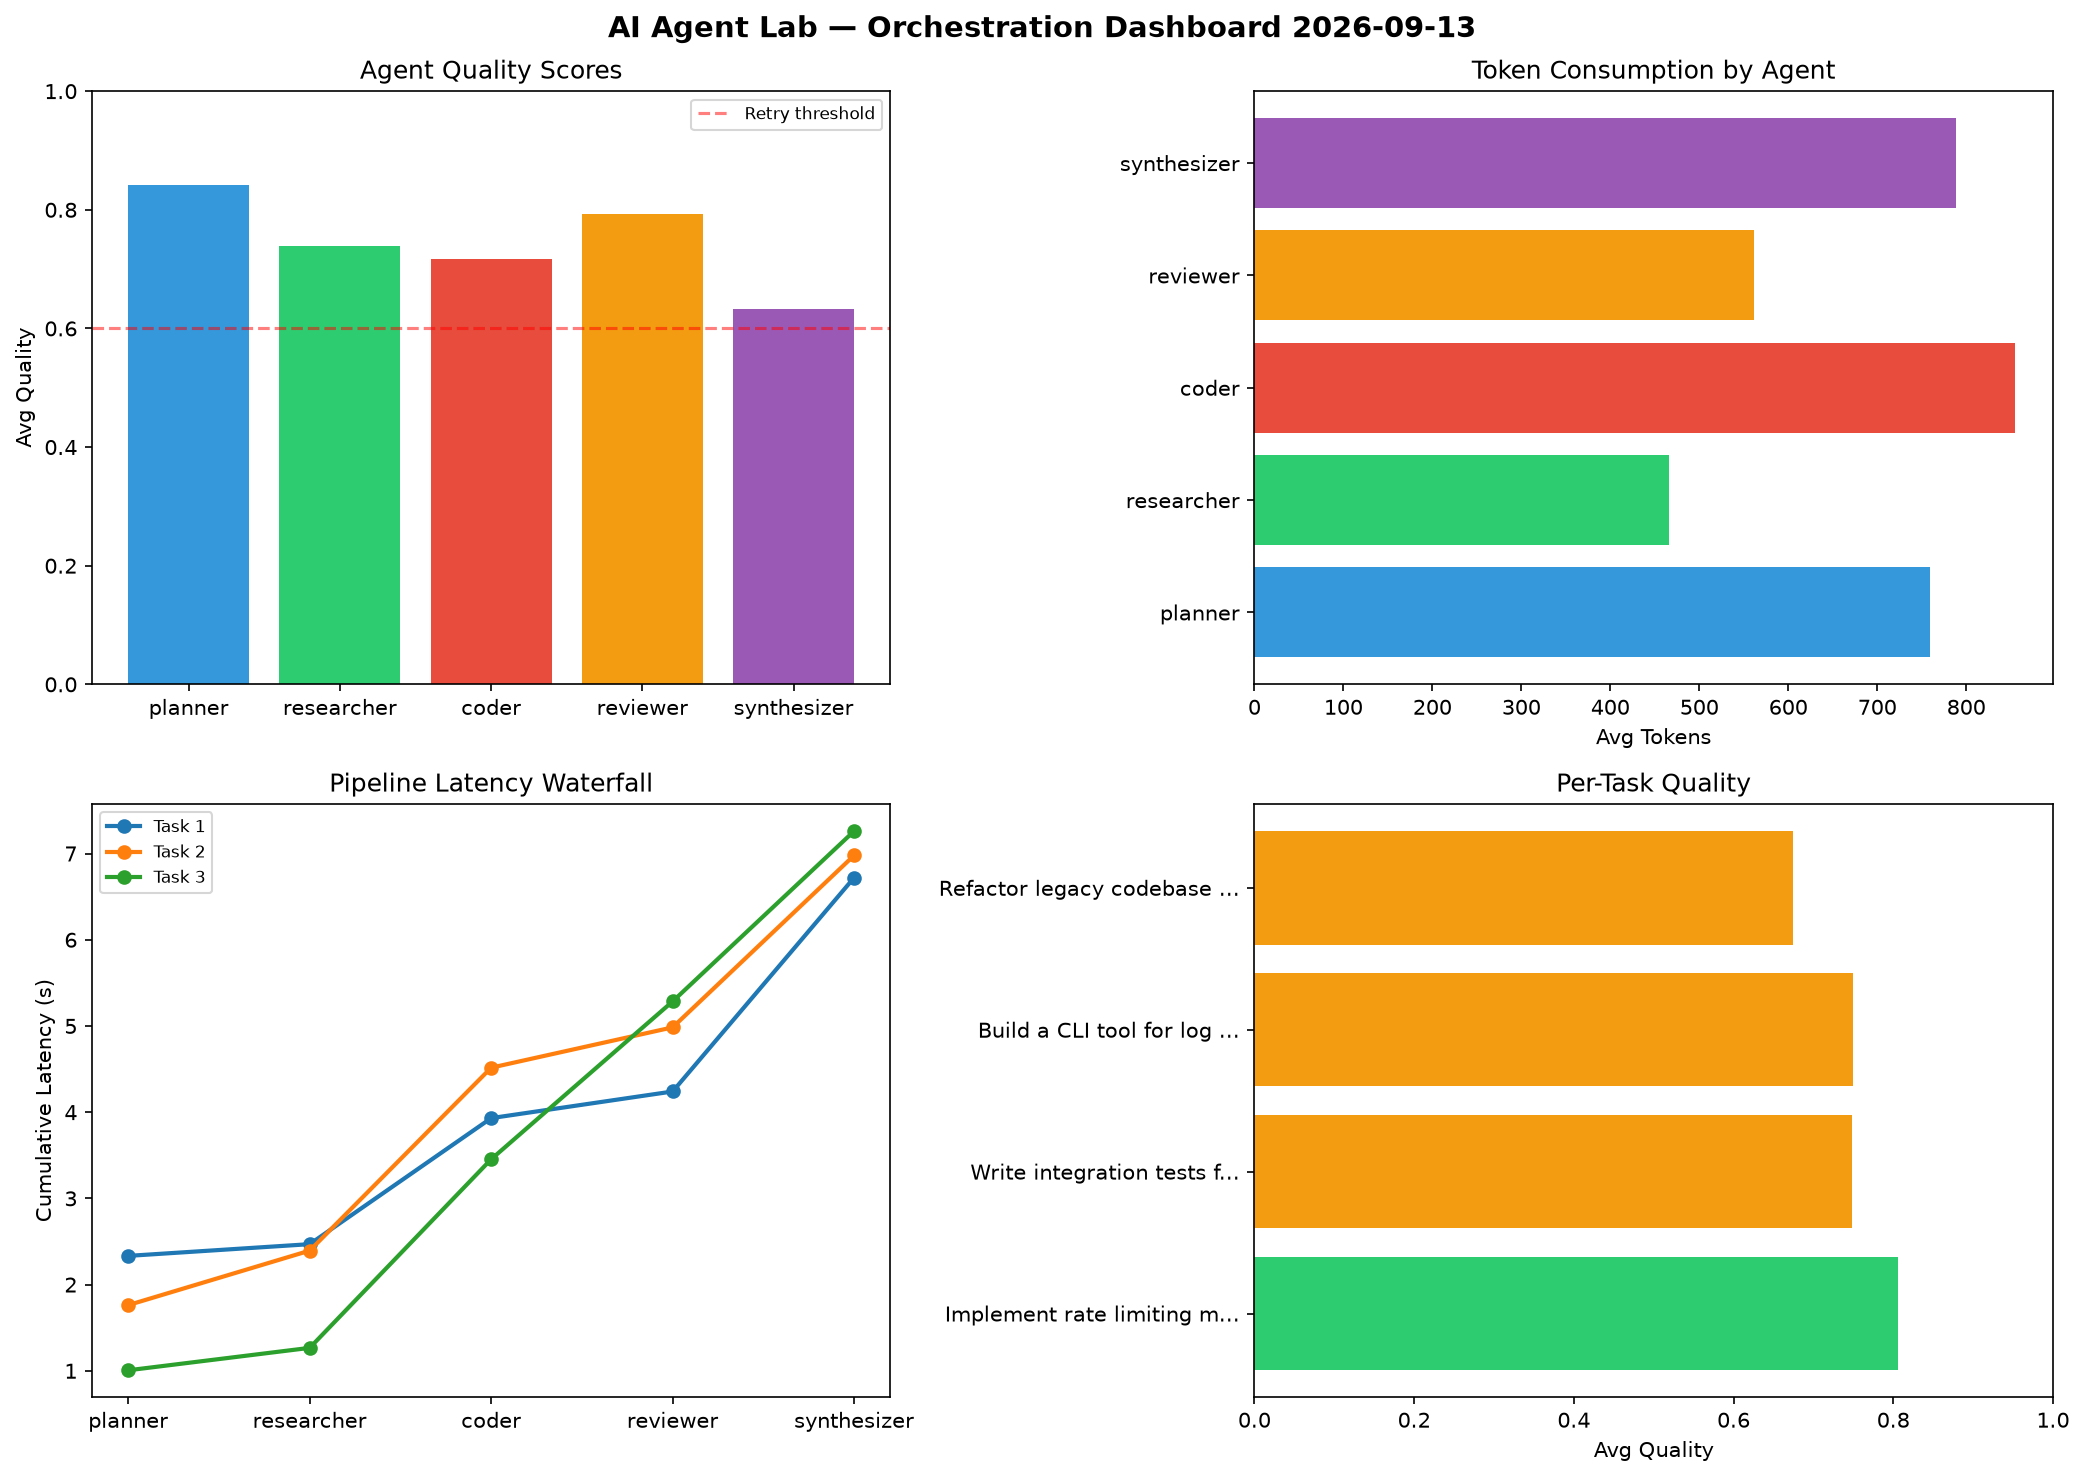
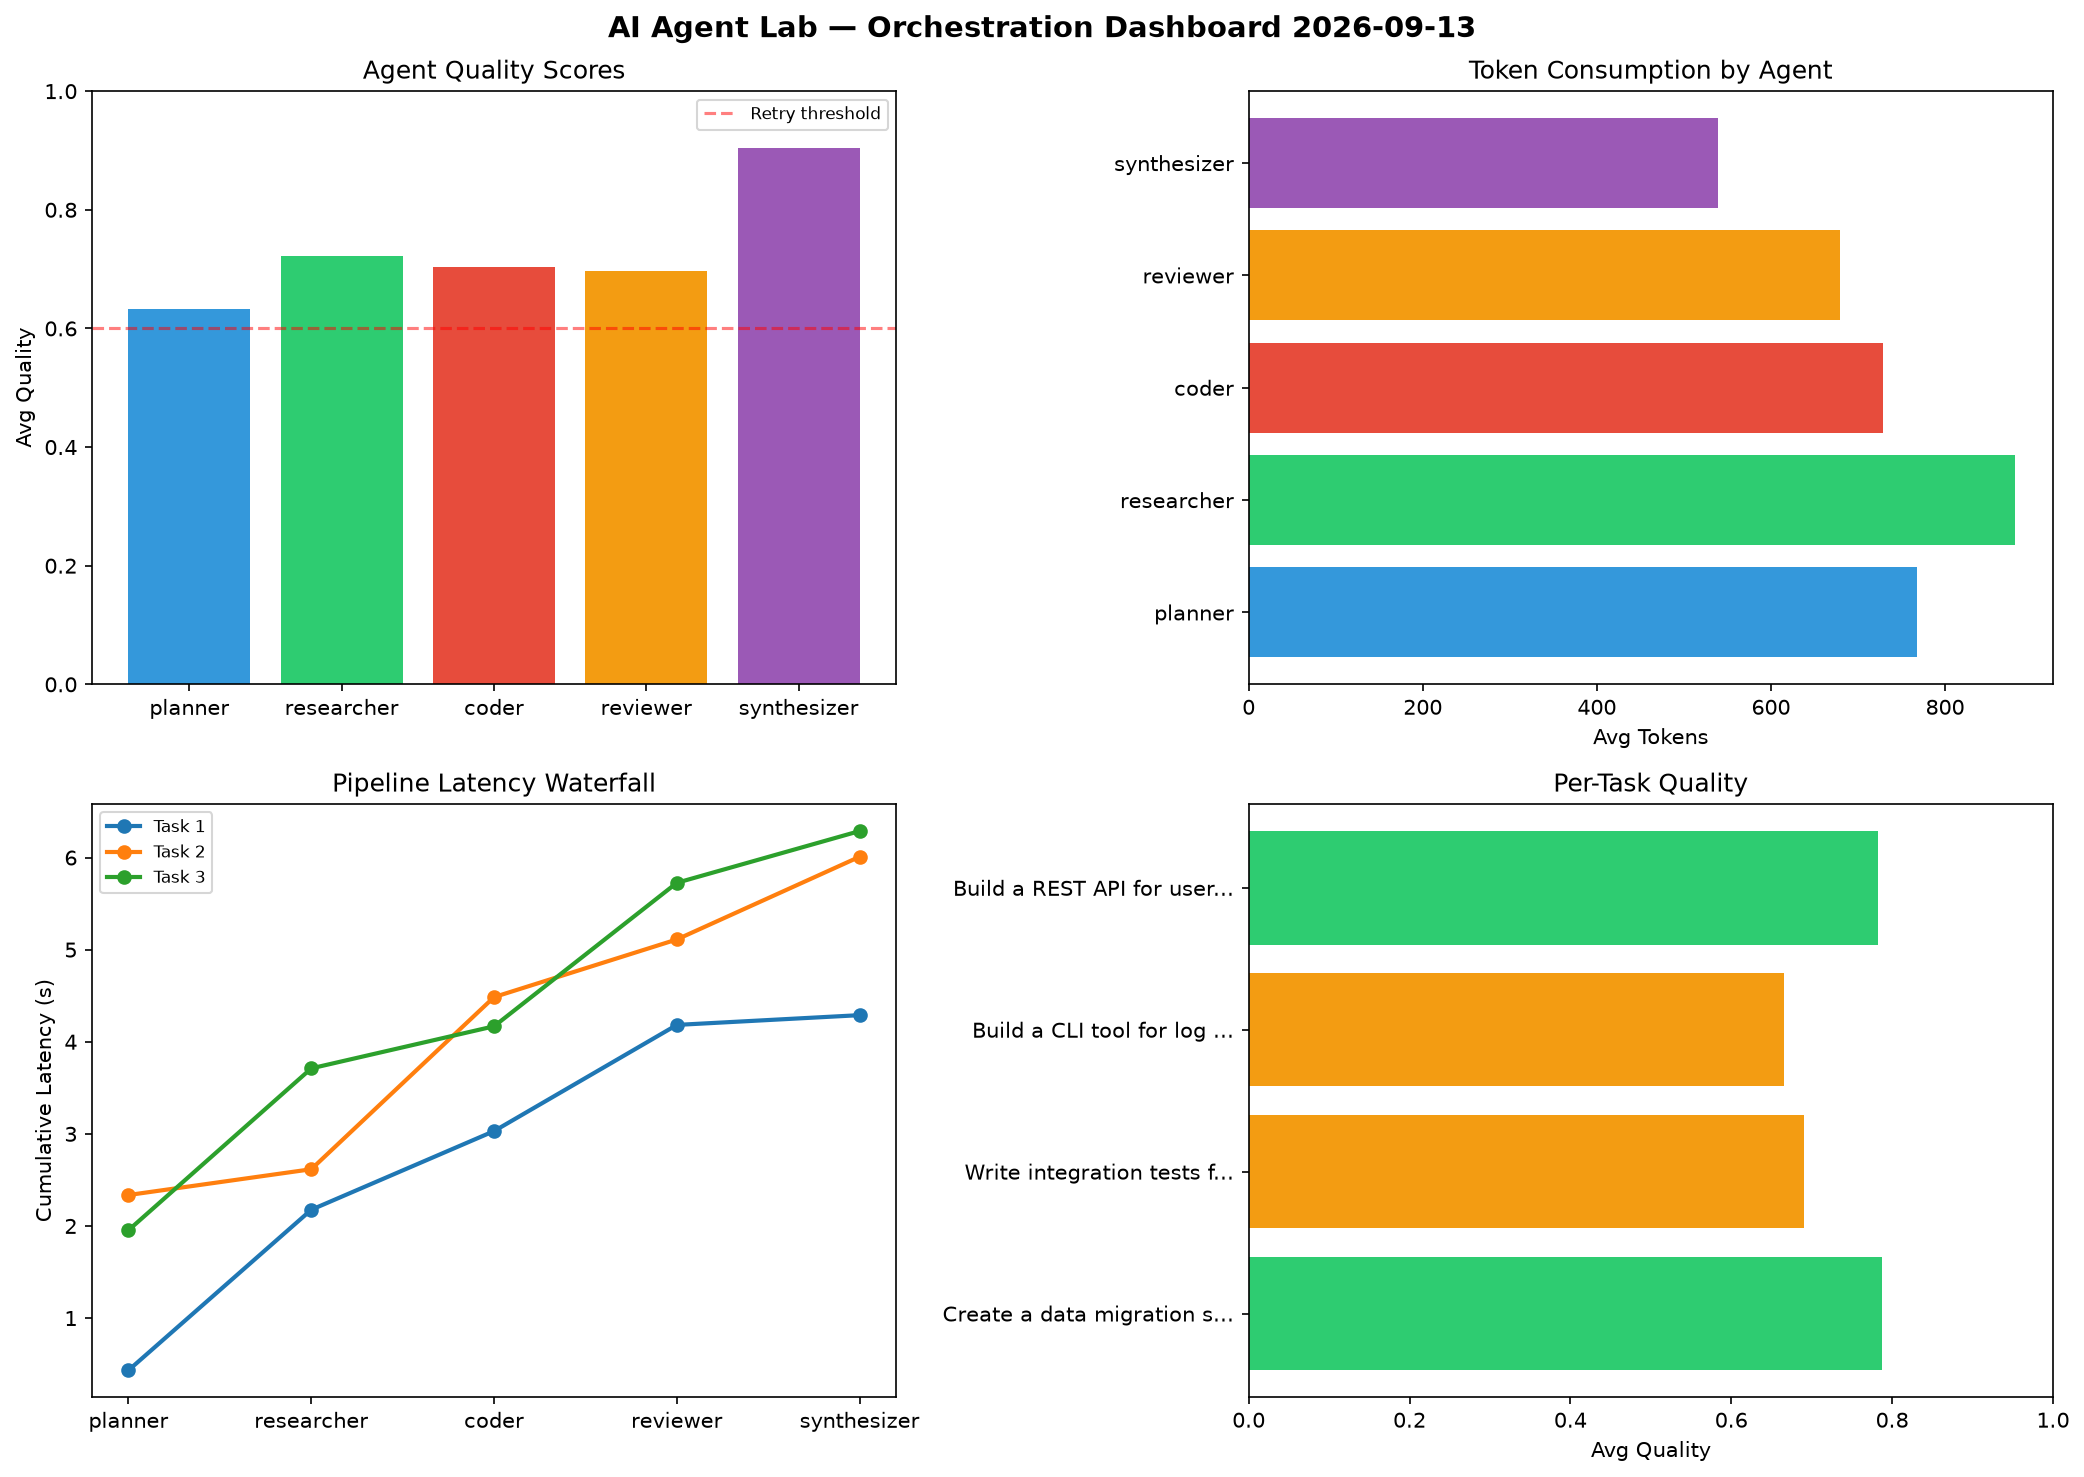
ai-agent-lab: orchestration run 2026-09-13T13:19

diff --git a/logs/2026-09-13.md b/logs/2026-09-13.md
@@ -1,6 +1,6 @@
 # AI Agent Lab — Orchestration Report 2026-09-13
 
-**Run ID:** `88e8a702c6` | **Tasks:** 4 | **Avg Quality:** 0.744
+**Run ID:** `370146c9ac` | **Tasks:** 4 | **Avg Quality:** 0.732
 
 ![Dashboard](2026-09-13_dashboard.png)
 
@@ -8,52 +8,52 @@
 
 | Metric | Value |
 |--------|-------|
-| avg_latency | 6.458 |
-| total_tokens | 13718 |
-| avg_quality | 0.744 |
+| avg_latency | 6.132 |
+| total_tokens | 14380 |
+| avg_quality | 0.732 |
 
 ## Delta vs Yesterday
 
 | Metric | Today | Yesterday | Change |
 |--------|-------|-----------|--------|
-| avg_latency | 6.458 | 6.336 | 📈 1.9% |
-| total_tokens | 13718 | 12878 | 📈 6.5% |
-| avg_quality | 0.744 | 0.771 | 📉 -3.5% |
+| avg_latency | 6.132 | 6.336 | 📉 -3.2% |
+| total_tokens | 14380 | 12878 | 📈 11.7% |
+| avg_quality | 0.732 | 0.771 | 📉 -5.1% |
 
 ## Pipeline Results
 
-### Implement rate limiting middleware
+### Create a data migration script for schema v2
 | Agent | Quality | Latency | Tokens | Status |
 |-------|---------|---------|--------|--------|
-| planner | 0.973 | 2.333s | 738 | success |
-| researcher | 0.586 | 0.136s | 382 | needs_retry |
-| coder | 0.82 | 1.462s | 963 | success |
-| reviewer | 0.948 | 0.309s | 419 | success |
-| synthesizer | 0.702 | 2.481s | 999 | success |
+| planner | 0.544 | 0.433s | 934 | needs_retry |
+| researcher | 0.886 | 1.743s | 928 | success |
+| coder | 0.718 | 0.854s | 1076 | success |
+| reviewer | 0.82 | 1.153s | 633 | success |
+| synthesizer | 0.968 | 0.106s | 229 | success |
 
 ### Write integration tests for payment processing module
 | Agent | Quality | Latency | Tokens | Status |
 |-------|---------|---------|--------|--------|
-| planner | 0.837 | 1.762s | 565 | success |
-| researcher | 0.884 | 0.632s | 300 | success |
-| coder | 0.732 | 2.122s | 827 | success |
-| reviewer | 0.747 | 0.468s | 580 | success |
-| synthesizer | 0.54 | 1.995s | 532 | needs_retry |
+| planner | 0.534 | 2.336s | 1035 | needs_retry |
+| researcher | 0.75 | 0.28s | 834 | success |
+| coder | 0.616 | 1.869s | 560 | success |
+| reviewer | 0.56 | 0.626s | 1185 | needs_retry |
+| synthesizer | 0.996 | 0.898s | 738 | success |
 
 ### Build a CLI tool for log analysis
 | Agent | Quality | Latency | Tokens | Status |
 |-------|---------|---------|--------|--------|
-| planner | 0.791 | 1.006s | 828 | success |
-| researcher | 0.739 | 0.26s | 307 | success |
-| coder | 0.596 | 2.188s | 693 | needs_retry |
-| reviewer | 0.952 | 1.831s | 902 | success |
-| synthesizer | 0.667 | 1.976s | 1050 | success |
+| planner | 0.881 | 1.954s | 339 | success |
+| researcher | 0.56 | 1.757s | 832 | needs_retry |
+| coder | 0.517 | 0.457s | 742 | needs_retry |
+| reviewer | 0.548 | 1.558s | 274 | needs_retry |
+| synthesizer | 0.824 | 0.562s | 762 | success |
 
-### Refactor legacy codebase to use dependency injection
+### Build a REST API for user authentication
 | Agent | Quality | Latency | Tokens | Status |
 |-------|---------|---------|--------|--------|
-| planner | 0.766 | 2.092s | 904 | success |
-| researcher | 0.746 | 0.131s | 876 | success |
-| coder | 0.719 | 0.334s | 936 | success |
-| reviewer | 0.522 | 0.515s | 346 | needs_retry |
-| synthesizer | 0.619 | 1.799s | 571 | success |
+| planner | 0.572 | 2.257s | 763 | needs_retry |
+| researcher | 0.694 | 1.406s | 926 | success |
+| coder | 0.965 | 0.638s | 536 | success |
+| reviewer | 0.856 | 1.74s | 625 | success |
+| synthesizer | 0.828 | 1.903s | 429 | success |
